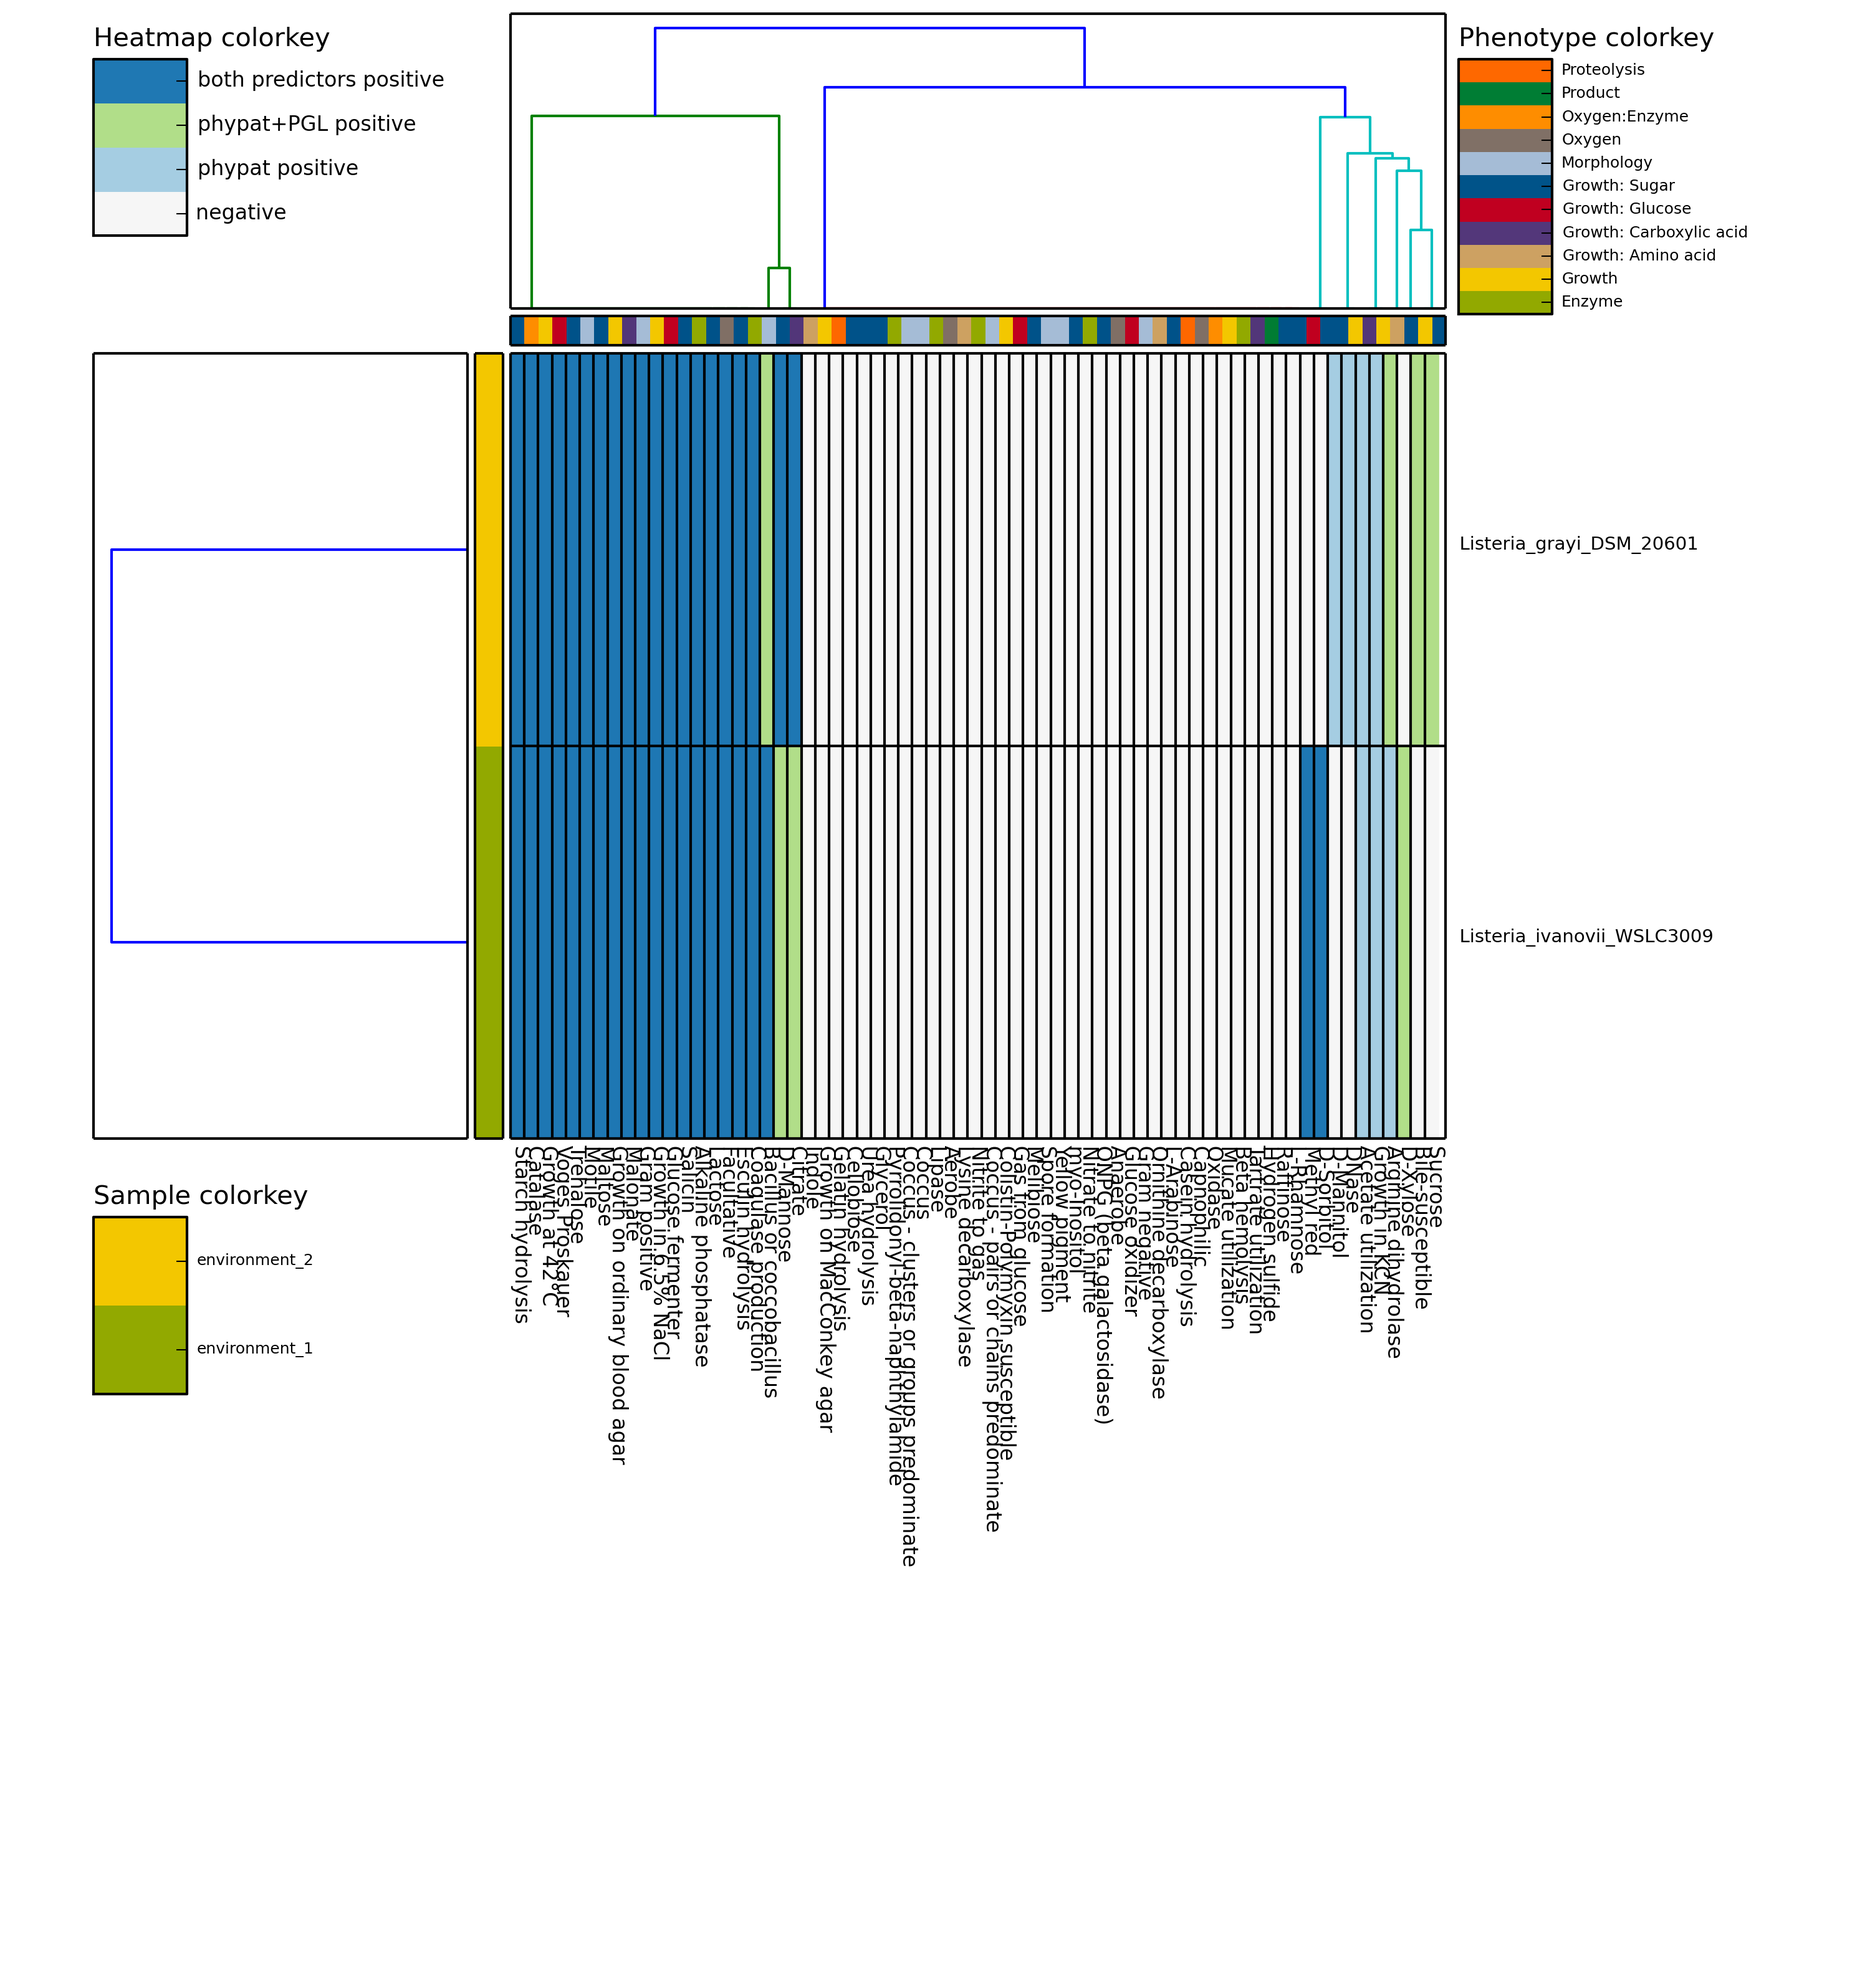
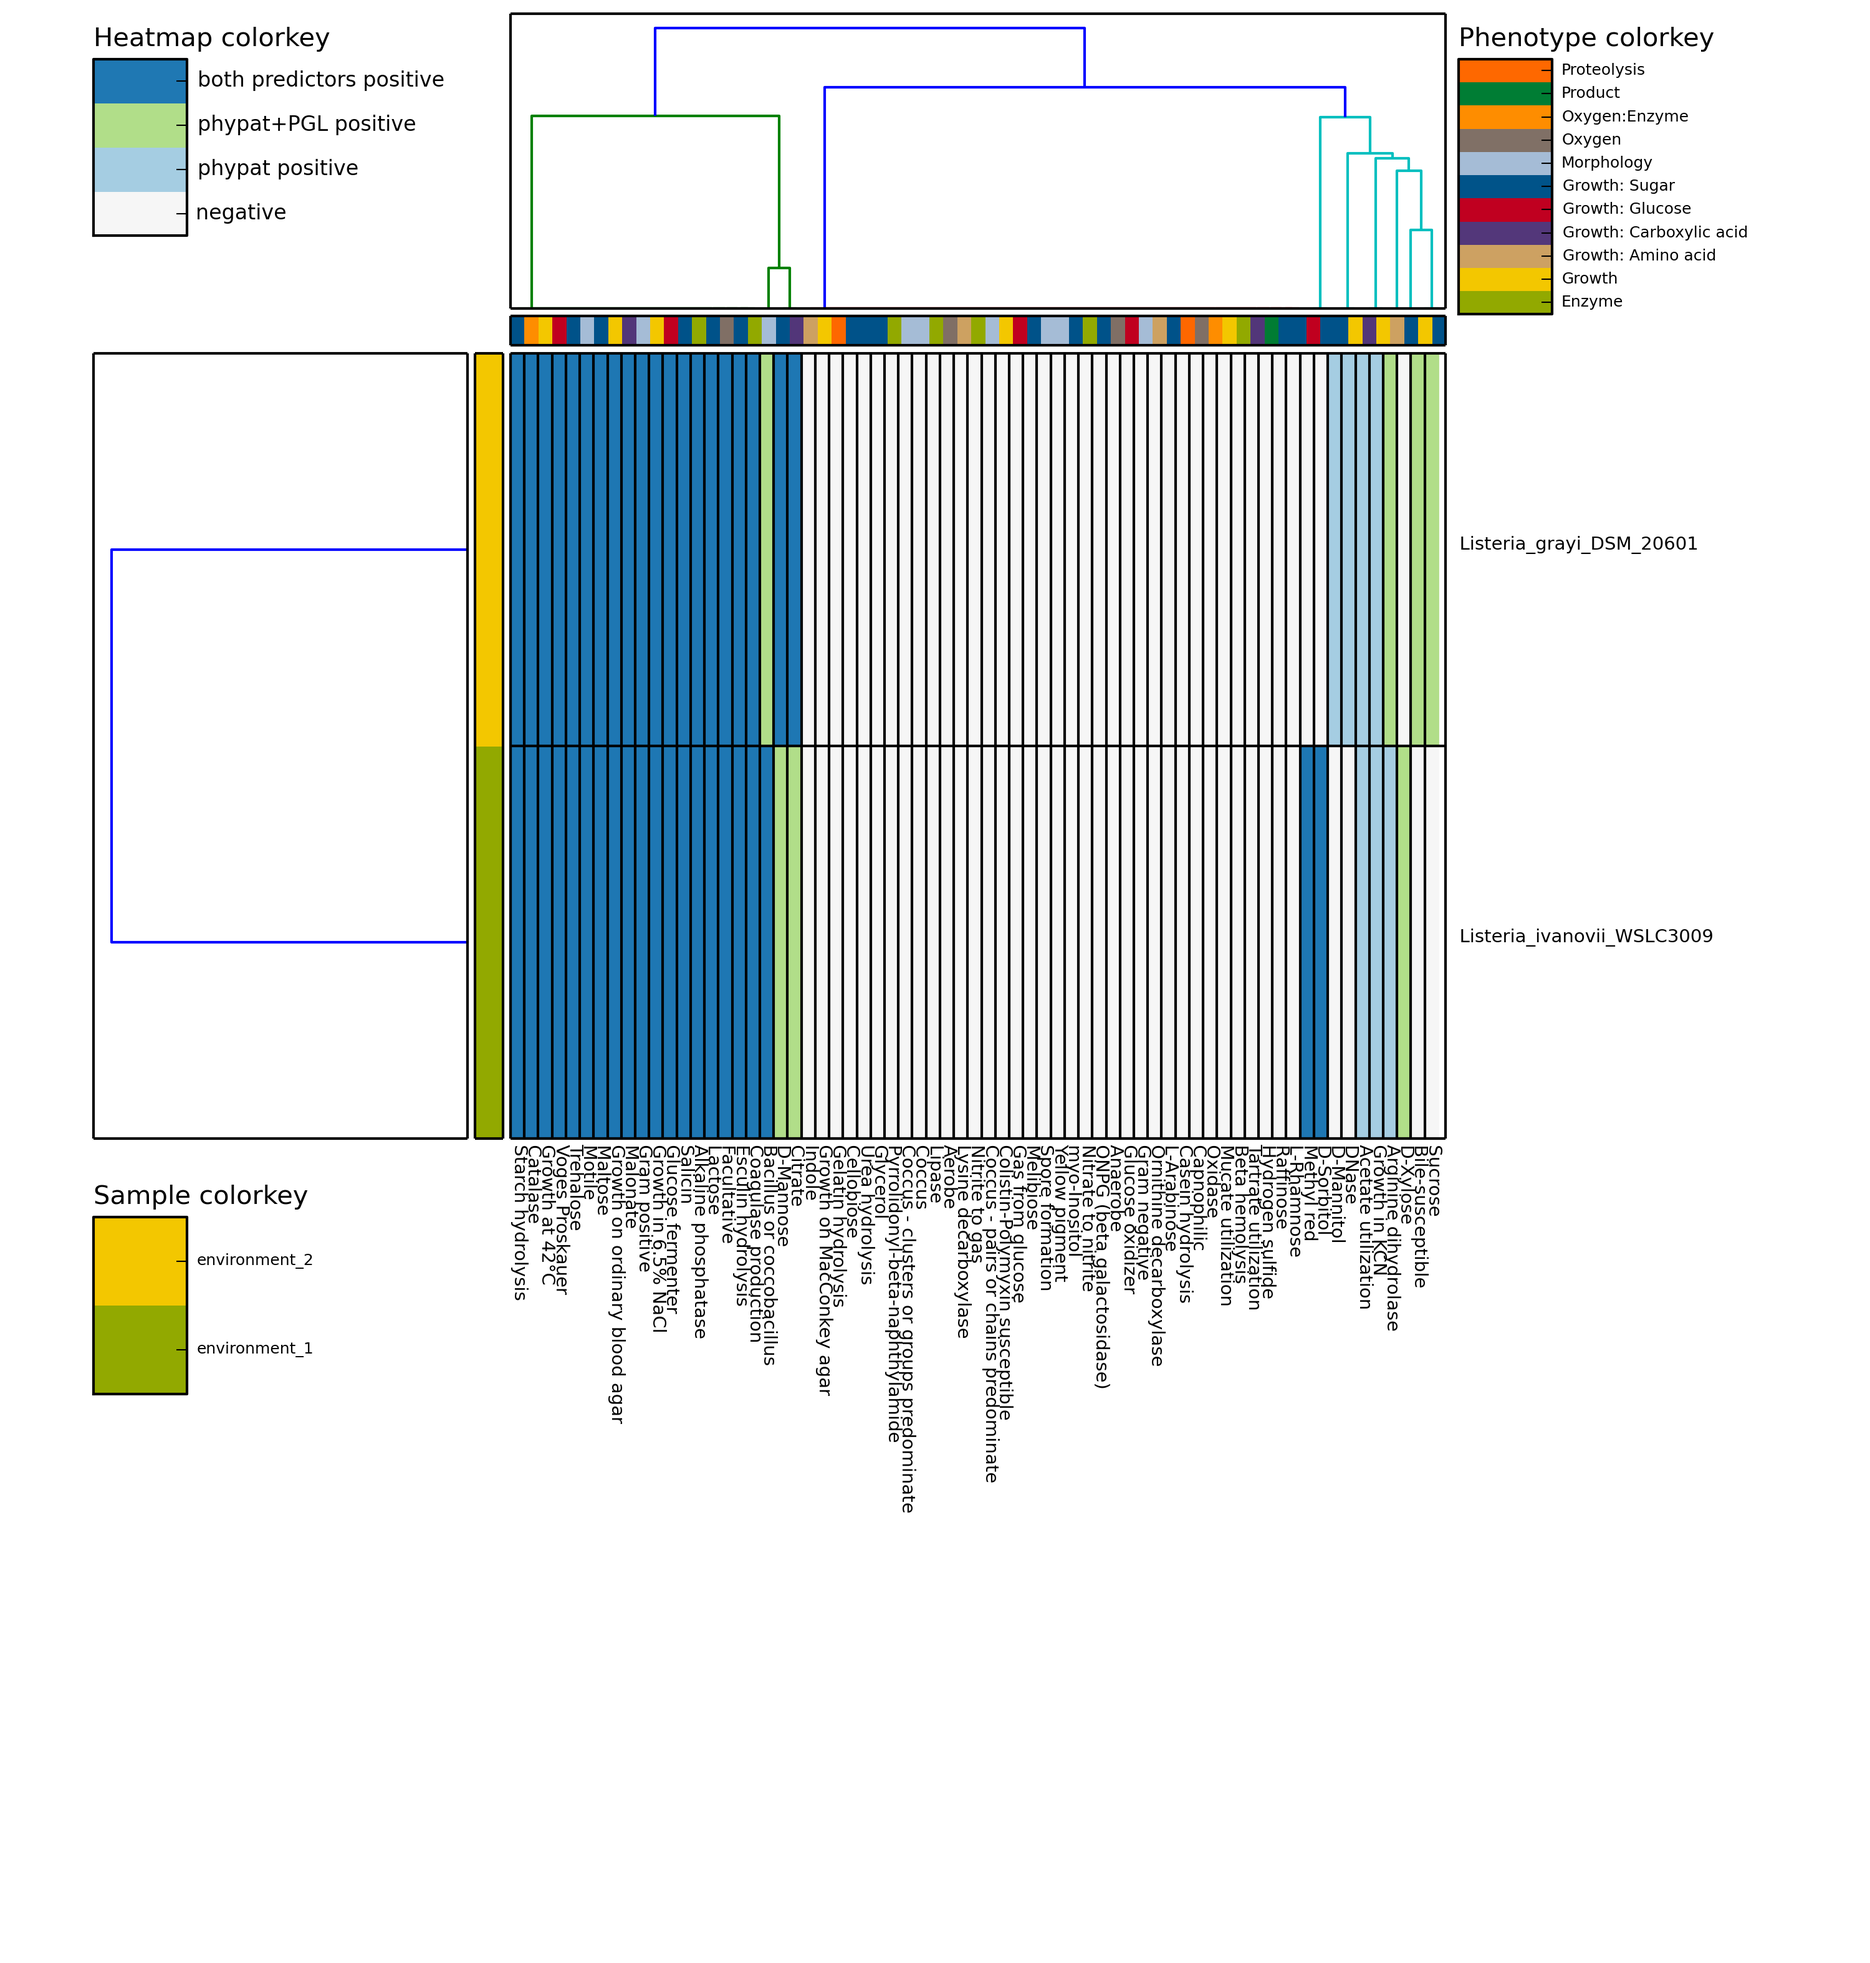
Heatmap phenotype font size decreased

Changed region(s): [[0.279, 0.56, 0.775, 0.7778]]

diff --git a/traitar/heatmap.py b/traitar/heatmap.py
@@ -216,11 +216,11 @@ def heatmap(x, row_header, column_header, primary_pt_models, color_f, row_method
     for i in range(x.shape[1]):
         if not column_method is None and x.shape[1] > 1:
             axm.plot([i-0.5, i-0.5], [-0.5, len(row_header) - 0.5], color = 'black', ls = '-')
-            axm.text(i-0.5, -0.5, ' '+ column_header[idx2[i]], fontdict = {'fontsize': 8}, rotation=270, verticalalignment="top") # rotation could also be degrees
+            axm.text(i-0.5, -0.5, ' '+ column_header[idx2[i]], fontdict = {'fontsize': 7}, rotation=270, verticalalignment="top") # rotation could also be degrees
             new_column_header.append(column_header[idx2[i]])
         else: ### When not clustering columns
             axm.plot([i-0.5, i-0.5], [-0.5, len(row_header) - 0.5], color = 'black', ls = '-')
-            axm.text(i-0.5, -0.8, ' '+column_header[i], fontdict = {'fontsize': 8}, rotation=270, verticalalignment="top")
+            axm.text(i-0.5, -0.8, ' '+column_header[i], fontdict = {'fontsize': 7}, rotation=270, verticalalignment="top")
             new_column_header.append(column_header[i])
     
     pt2acc = primary_pt_models.get_pt2acc()
